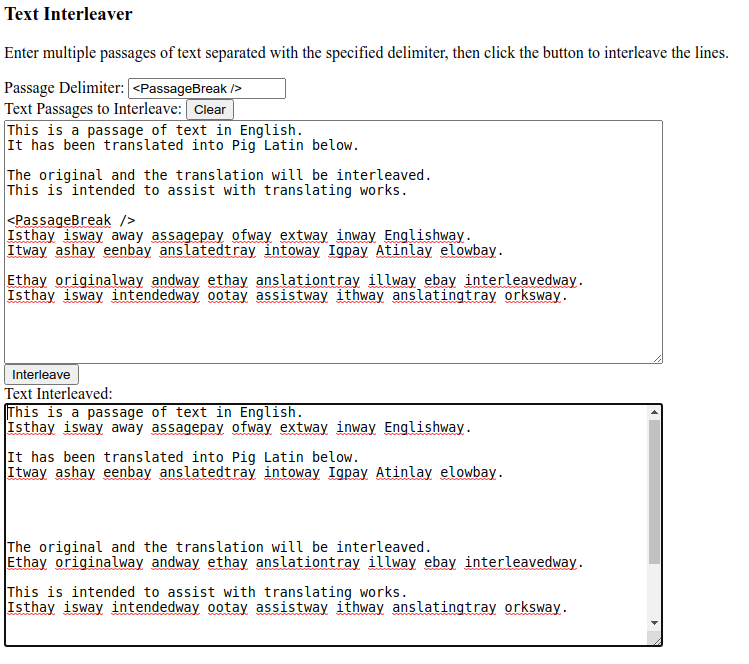
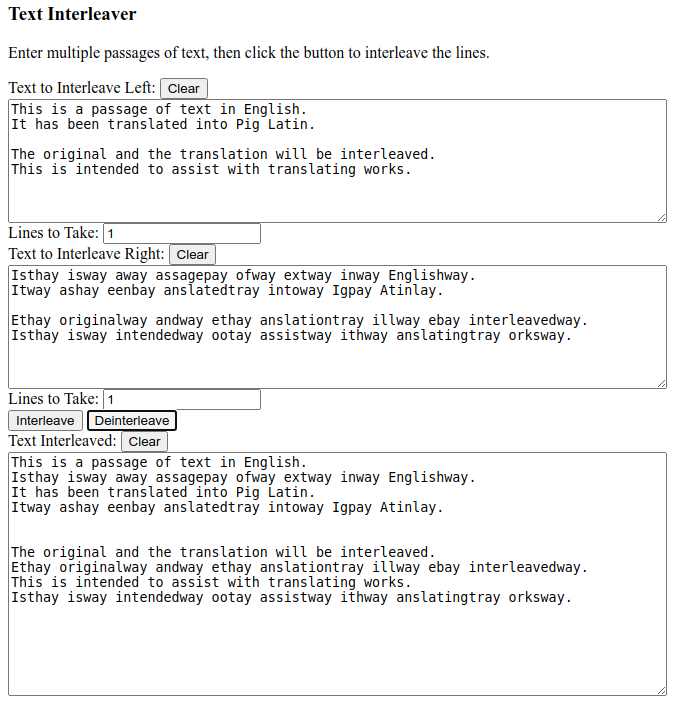
Changed to use two textareas to interleave, rather than one with the passages delimited by a delimiter sequence.

diff --git a/Source/TextInterleaver.html b/Source/TextInterleaver.html
@@ -3,42 +3,52 @@
 <body>
 
 	<div id="divUi">
-	
+
 		<h3>Text Interleaver</h3>
-		<p>Enter multiple passages of text separated with the specified delimiter, then click the button to interleave the lines.</p>
+		<p>Enter multiple passages of text, then click the button to interleave the lines.</p>
 
-		<label>Passage Delimiter:</label>
-		<input id="inputPassageDelimiter" value="<PassageBreak />"></input>
+		<label>Text to Interleave Left:</label>
+		<button onclick="buttonClearLeft_Clicked();">Clear</button>
 		<br />
-
-		<label>Text Passages to Interleave:</label>
-		<button onclick="buttonClear_Clicked();">Clear</button>
-		<br />
-		<textarea id="textareaTextToInterleave" cols="80" rows="16">
+		<textarea id="textareaTextToInterleaveLeft" cols="80" rows="8">
 This is a passage of text in English.
-It has been translated into Pig Latin below.
+It has been translated into Pig Latin.
 
 The original and the translation will be interleaved.
 This is intended to assist with translating works.
+		</textarea>
+		<br />
 
-&lt;PassageBreak /&gt;
+		<label>Lines to Take:</label>
+		<input id="inputLinesToTakeLeft" type="number" value="1"></input>
+		<br />
+
+		<label>Text to Interleave Right:</label>
+		<button onclick="buttonClearRight_Clicked();">Clear</button>
+		<br />
+		<textarea id="textareaTextToInterleaveRight" cols="80" rows="8">
 Isthay isway away assagepay ofway extway inway Englishway.
-Itway ashay eenbay anslatedtray intoway Igpay Atinlay elowbay.
+Itway ashay eenbay anslatedtray intoway Igpay Atinlay.
 
 Ethay originalway andway ethay anslationtray illway ebay interleavedway.
 Isthay isway intendedway ootay assistway ithway anslatingtray orksway.
+		</textarea>
+		<br />
 
-</textarea>
+		<label>Lines to Take:</label>
+		<input id="inputLinesToTakeRight" type="number" value="1"></input>
 		<br />
 
 		<button onclick="buttonInterleave_Clicked();">Interleave</button>
-		<button onclick="buttonDeinterleave_Clicked();">Deinterleave into:</button>
-		<input id="inputPassageCount" type="number" value="2"></input>
-
+		<button onclick="buttonDeinterleave_Clicked();">Deinterleave</button>
 		<br />
 
-		<label>Text Interleaved:</label><br />
+		<label>Text Interleaved:</label>
+		<button onclick="buttonClearInterleaved_Clicked();">Clear</button>
+		<br />
 		<textarea id="textareaTextInterleaved" cols="80" rows="16"></textarea>
+
+	</div>
 
 	</div>
 
@@ -46,110 +56,133 @@ Isthay isway intendedway ootay assistway ithway anslatingtray orksway.
 
 // UI event handlers.
 
-function buttonClear_Clicked()
+function buttonClearInterleaved_Clicked()
+{
+	var d = document;
+
+	var textareaTextInterleaved =
+		d.getElementById("textareaTextInterleaved");
+	var textToInterleave = textareaTextInterleaved.value;
+	textareaTextToInterleave.value = "";
+}
+
+function buttonClearLeft_Clicked()
 {
 	var d = document;
 
 	var textareaTextToInterleave =
-		d.getElementById("textareaTextToInterleave");
+		d.getElementById("textareaTextToInterleaveLeft");
 	var textToInterleave = textareaTextToInterleave.value;
 	textareaTextToInterleave.value = "";
+}
 
-	var textareaTextInterleaved =
-		d.getElementById("textareaTextInterleaved");
-	textareaTextInterleaved.value = "";
+function buttonClearRight_Clicked()
+{
+	var d = document;
+
+	var textareaTextToInterleave =
+		d.getElementById("textareaTextToInterleaveRight");
+	var textToInterleave = textareaTextToInterleave.value;
+	textareaTextToInterleave.value = "";
 }
 
 function buttonDeinterleave_Clicked()
 {
 	var d = document;
 
-	var inputPassageCount =
-		d.getElementById("inputPassageCount");
-	var passageCountAsString = inputPassageCount.value;
-	var passageCount = parseInt(passageCountAsString);
-
 	var textareaTextInterleaved =
 		d.getElementById("textareaTextInterleaved");
-	var textInterleaved = textareaTextInterleaved.value;
+	var textareaTextToInterleaveLeft =
+		d.getElementById("textareaTextToInterleaveLeft");
+	var textareaTextToInterleaveRight =
+		d.getElementById("textareaTextToInterleaveRight");
+	var inputLinesToTakeLeft = d.getElementById("inputLinesToTakeLeft");
+	var inputLinesToTakeRight = d.getElementById("inputLinesToTakeRight");
+
+	var linesToTakeFromLeft = parseInt(inputLinesToTakeLeft.value);
+	var linesToTakeFromRight = parseInt(inputLinesToTakeRight.value);
+	var linesPerGrouping = linesToTakeFromLeft + linesToTakeFromRight;
 
 	var newline = "\n";
+	var textInterleaved = textareaTextInterleaved.value;
 	var textInterleavedAsLines = textInterleaved.split(newline);
 
-	var passagesDeinterleavedSoFar = [];
-	for (var p = 0; p < passageCount; p++)
-	{
-		passagesDeinterleavedSoFar.push("");
-	}
+	var linesDeinterleavedSoFarLeft = [];
+	var linesDeinterleavedSoFarRight = [];
 
-	for (var i = 0; i < textInterleavedAsLines.length; i += passageCount + 1)
+	for (var i = 0; i < textInterleavedAsLines.length; i += linesPerGrouping)
 	{
-		for (var p = 0; p < passageCount; p++)
+		for (var j = 0; j < linesToTakeFromLeft; j++)
 		{
-			var passageSoFar = passagesDeinterleavedSoFar[p];
-			var lineIndex = i + p;
-			if (lineIndex < textInterleavedAsLines.length)
-			{
-				var lineFromPassage = textInterleavedAsLines[lineIndex];
-				passageSoFar += lineFromPassage + newline;
-				passagesDeinterleavedSoFar[p] = passageSoFar;
-			}
+			var line = textInterleavedAsLines[i + j];
+			linesDeinterleavedSoFarLeft.push(line);
+		}
+
+		for (var j = 0; j < linesToTakeFromRight; j++)
+		{
+			var line = textInterleavedAsLines[i + linesToTakeFromLeft + j];
+			linesDeinterleavedSoFarRight.push(line);
 		}
 	}
 
-	var inputPassageDelimiter =
-		d.getElementById("inputPassageDelimiter");
-	var passageDelimiter = inputPassageDelimiter.value + newline;
+	var textDeinterleavedLeft = linesDeinterleavedSoFarLeft.join(newline);
+	var textDeinterleavedRight = linesDeinterleavedSoFarRight.join(newline);
 
-	var textDeinterleaved =
-		passagesDeinterleavedSoFar.join(passageDelimiter);
-
-	var textareaTextToInterleave =
-		d.getElementById("textareaTextToInterleave");
-	textareaTextToInterleave.value = textDeinterleaved;
-
+	textareaTextToInterleaveLeft.value = textDeinterleavedLeft;
+	textareaTextToInterleaveRight.value = textDeinterleavedRight;
 }
 
 function buttonInterleave_Clicked()
 {
 	var d = document;
 
-	var inputPassageDelimiter =
-		d.getElementById("inputPassageDelimiter");
+	var textareaTextToInterleaveLeft =
+		d.getElementById("textareaTextToInterleaveLeft");
+	var textToInterleaveLeft = textareaTextToInterleaveLeft.value;
+
+	var inputLinesToTakeLeft = d.getElementById("inputLinesToTakeLeft");
+	var linesToTakeFromLeft = parseInt(inputLinesToTakeLeft.value);
+	var inputLinesToTakeRight = d.getElementById("inputLinesToTakeRight");
+	var linesToTakeFromRight = parseInt(inputLinesToTakeRight.value);
+
+	var textareaTextToInterleaveRight =
+		d.getElementById("textareaTextToInterleaveRight");
+	var textToInterleaveRight = textareaTextToInterleaveRight.value;
+
 	var newline = "\n";
-	var passageDelimiter =
-		newline + inputPassageDelimiter.value + newline;
+	var textLeftAsLines = textToInterleaveLeft.split(newline);
+	var textRightAsLines = textToInterleaveRight.split(newline);
 
-	var textareaTextToInterleave =
-		d.getElementById("textareaTextToInterleave");
-	var textToInterleave = textareaTextToInterleave.value;
+	var lineIndexLeft = 0;
+	var lineIndexRight = 0;
 
-	var passagesToInterleave =
-		textToInterleave.split(passageDelimiter);
-	var passagesAsLineArrays =
-		passagesToInterleave.map(x => x.split(newline));
-	var passageFirstAsLines = passagesAsLineArrays[0];
-
-	var textInterleavedSoFar = "";
-	for (var i = 0; i < passageFirstAsLines.length; i++)
+	var linesInterleavedSoFar = [];
+	while
+	(
+		lineIndexLeft < textLeftAsLines.length
+		|| lineIndexRight < textRightAsLines.length
+	)
 	{
-		var lineGroupingInterleavedSoFar = "";
-
-		for (var p = 0; p < passagesAsLineArrays.length; p++)
+		for (var i = 0; i < linesToTakeFromLeft; i++)
 		{
-			var passageAsLines = passagesAsLineArrays[p];
-			var lineFromPassage = passageAsLines[i];
-			lineGroupingInterleavedSoFar += lineFromPassage + newline;
+			var lineToTake = textLeftAsLines[lineIndexLeft + i] || "";
+			linesInterleavedSoFar.push(lineToTake);
 		}
+		lineIndexLeft += linesToTakeFromLeft;
 
-		lineGroupingInterleavedSoFar += newline;
-
-		textInterleavedSoFar += lineGroupingInterleavedSoFar;
+		for (var i = 0; i < linesToTakeFromRight; i++)
+		{
+			var lineToTake = textRightAsLines[lineIndexRight + i] || "";
+			linesInterleavedSoFar.push(lineToTake);
+		}
+		lineIndexRight += linesToTakeFromRight;
 	}
+
+	var textInterleaved = linesInterleavedSoFar.join(newline);
 
 	var textareaTextInterleaved =
 		d.getElementById("textareaTextInterleaved");
-	textareaTextInterleaved.value = textInterleavedSoFar;
+	textareaTextInterleaved.value = textInterleaved;
 }
 
 </script>
